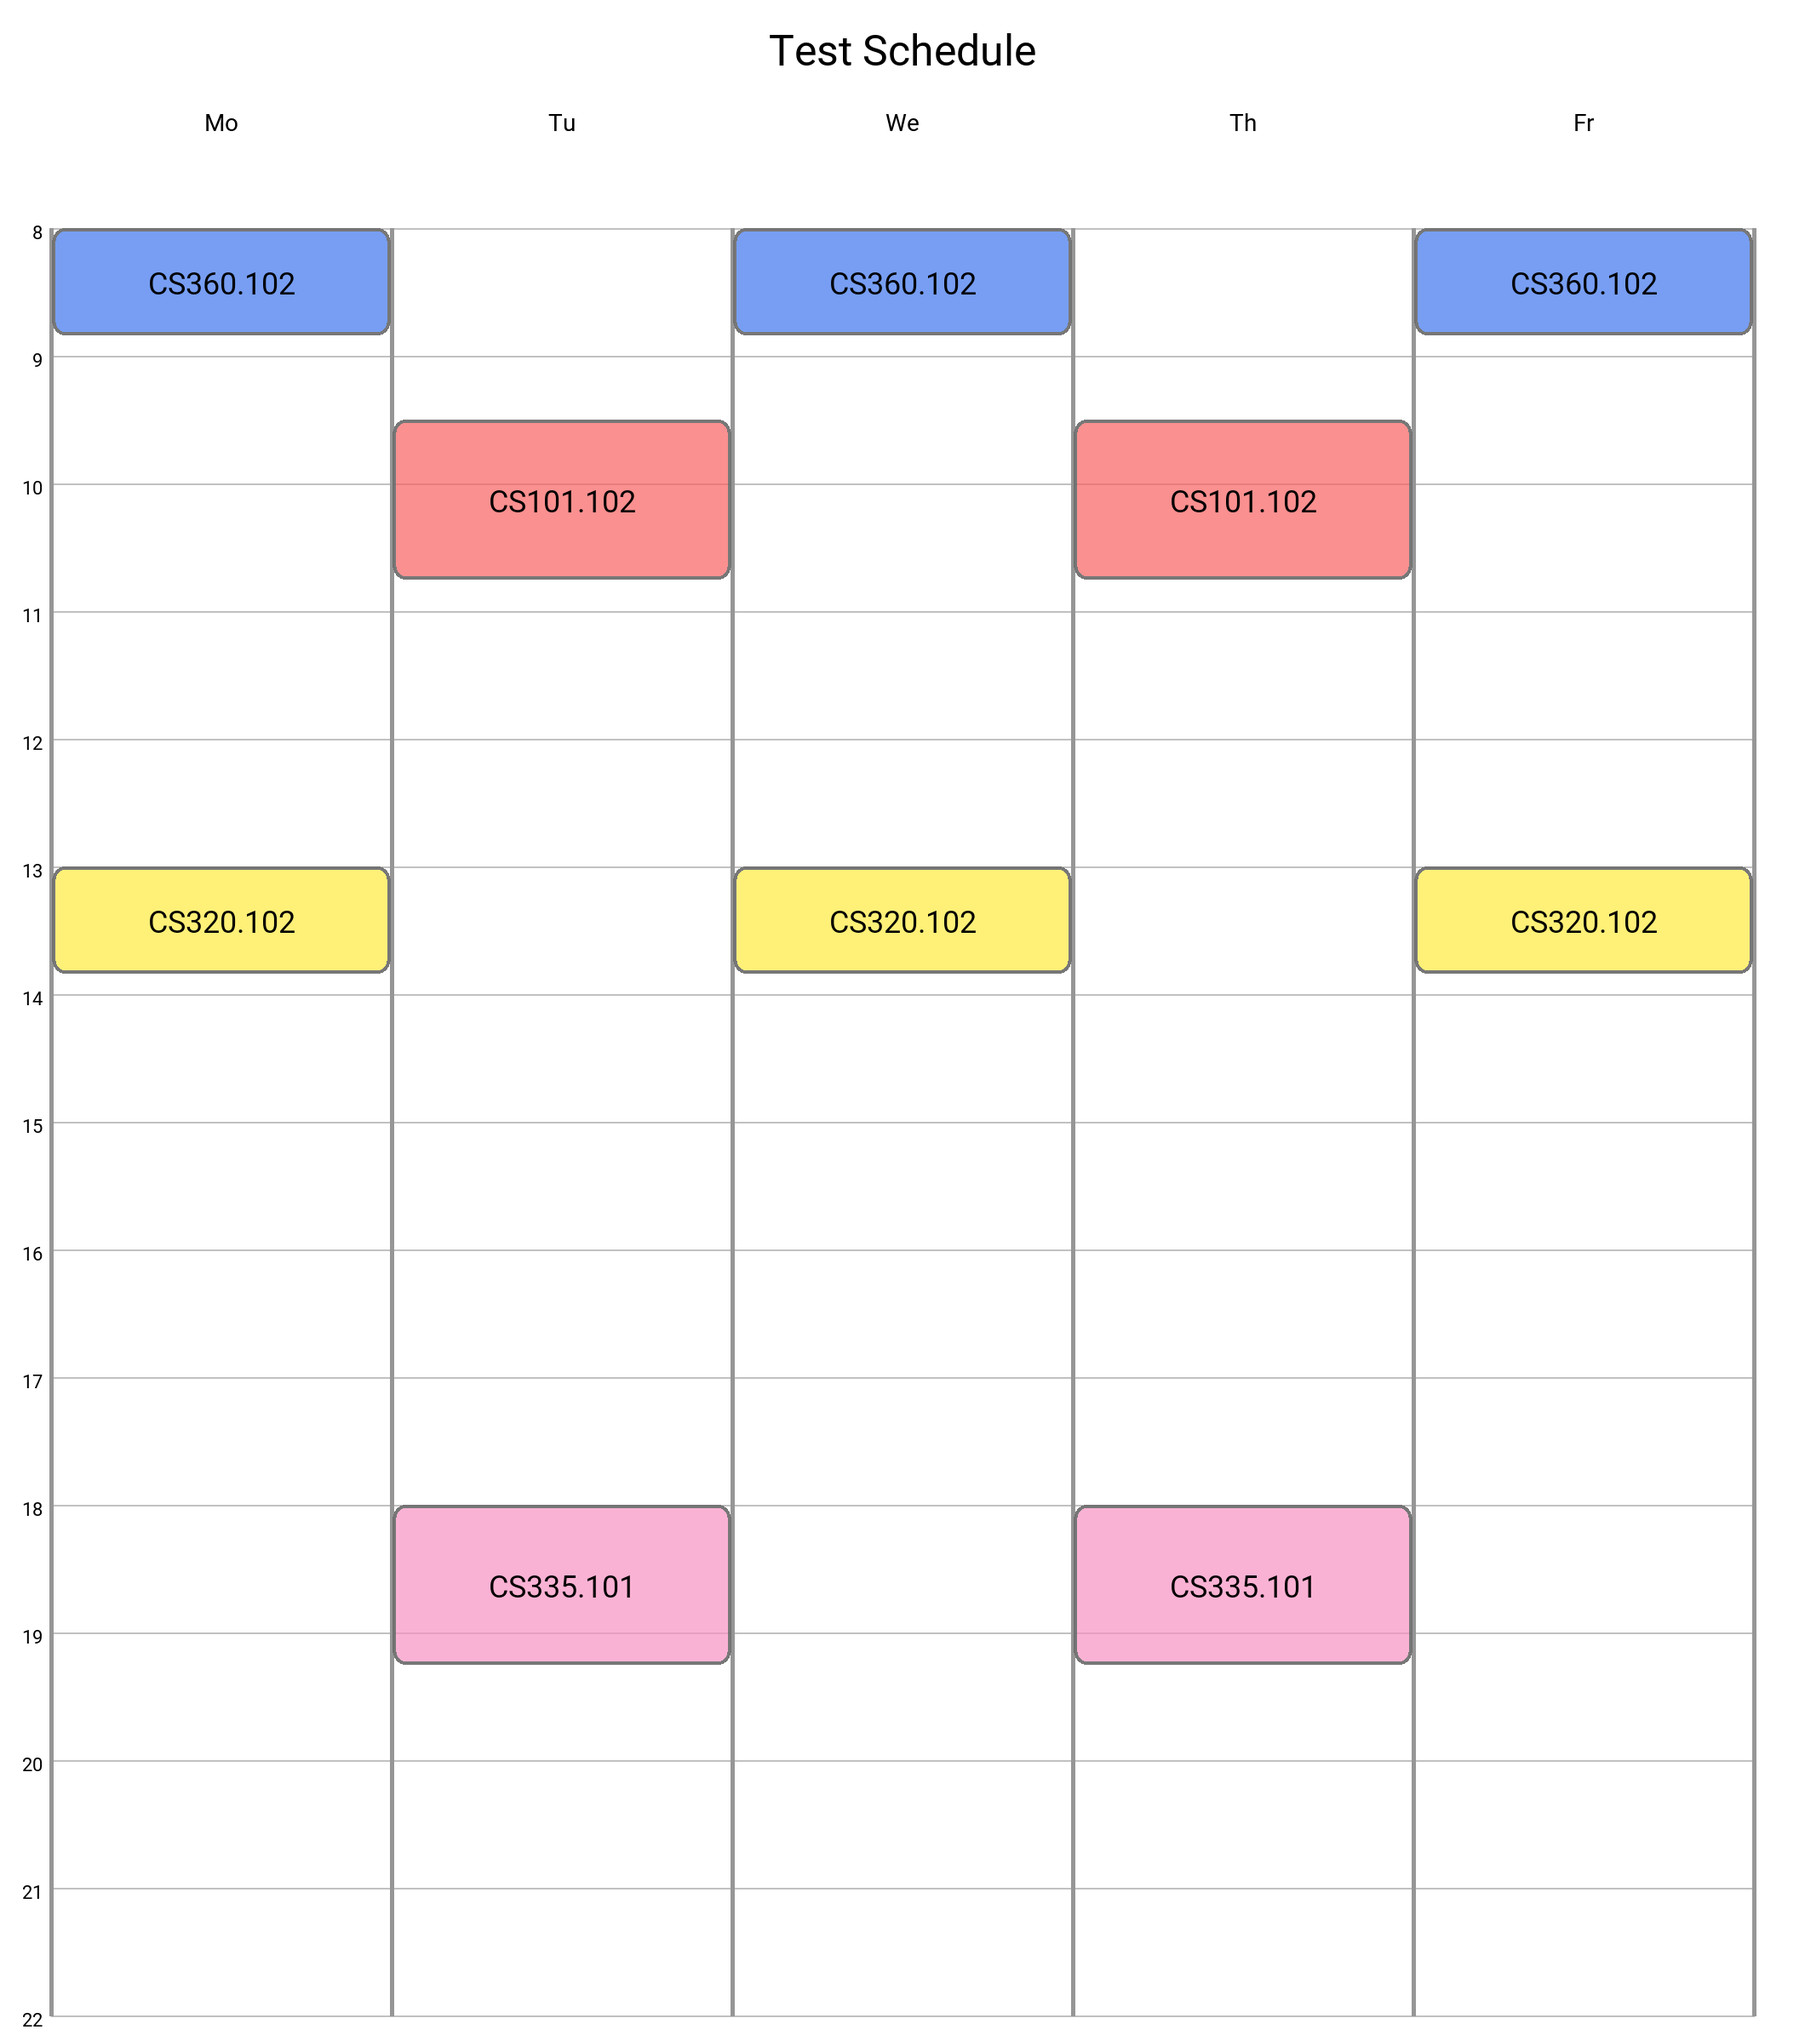
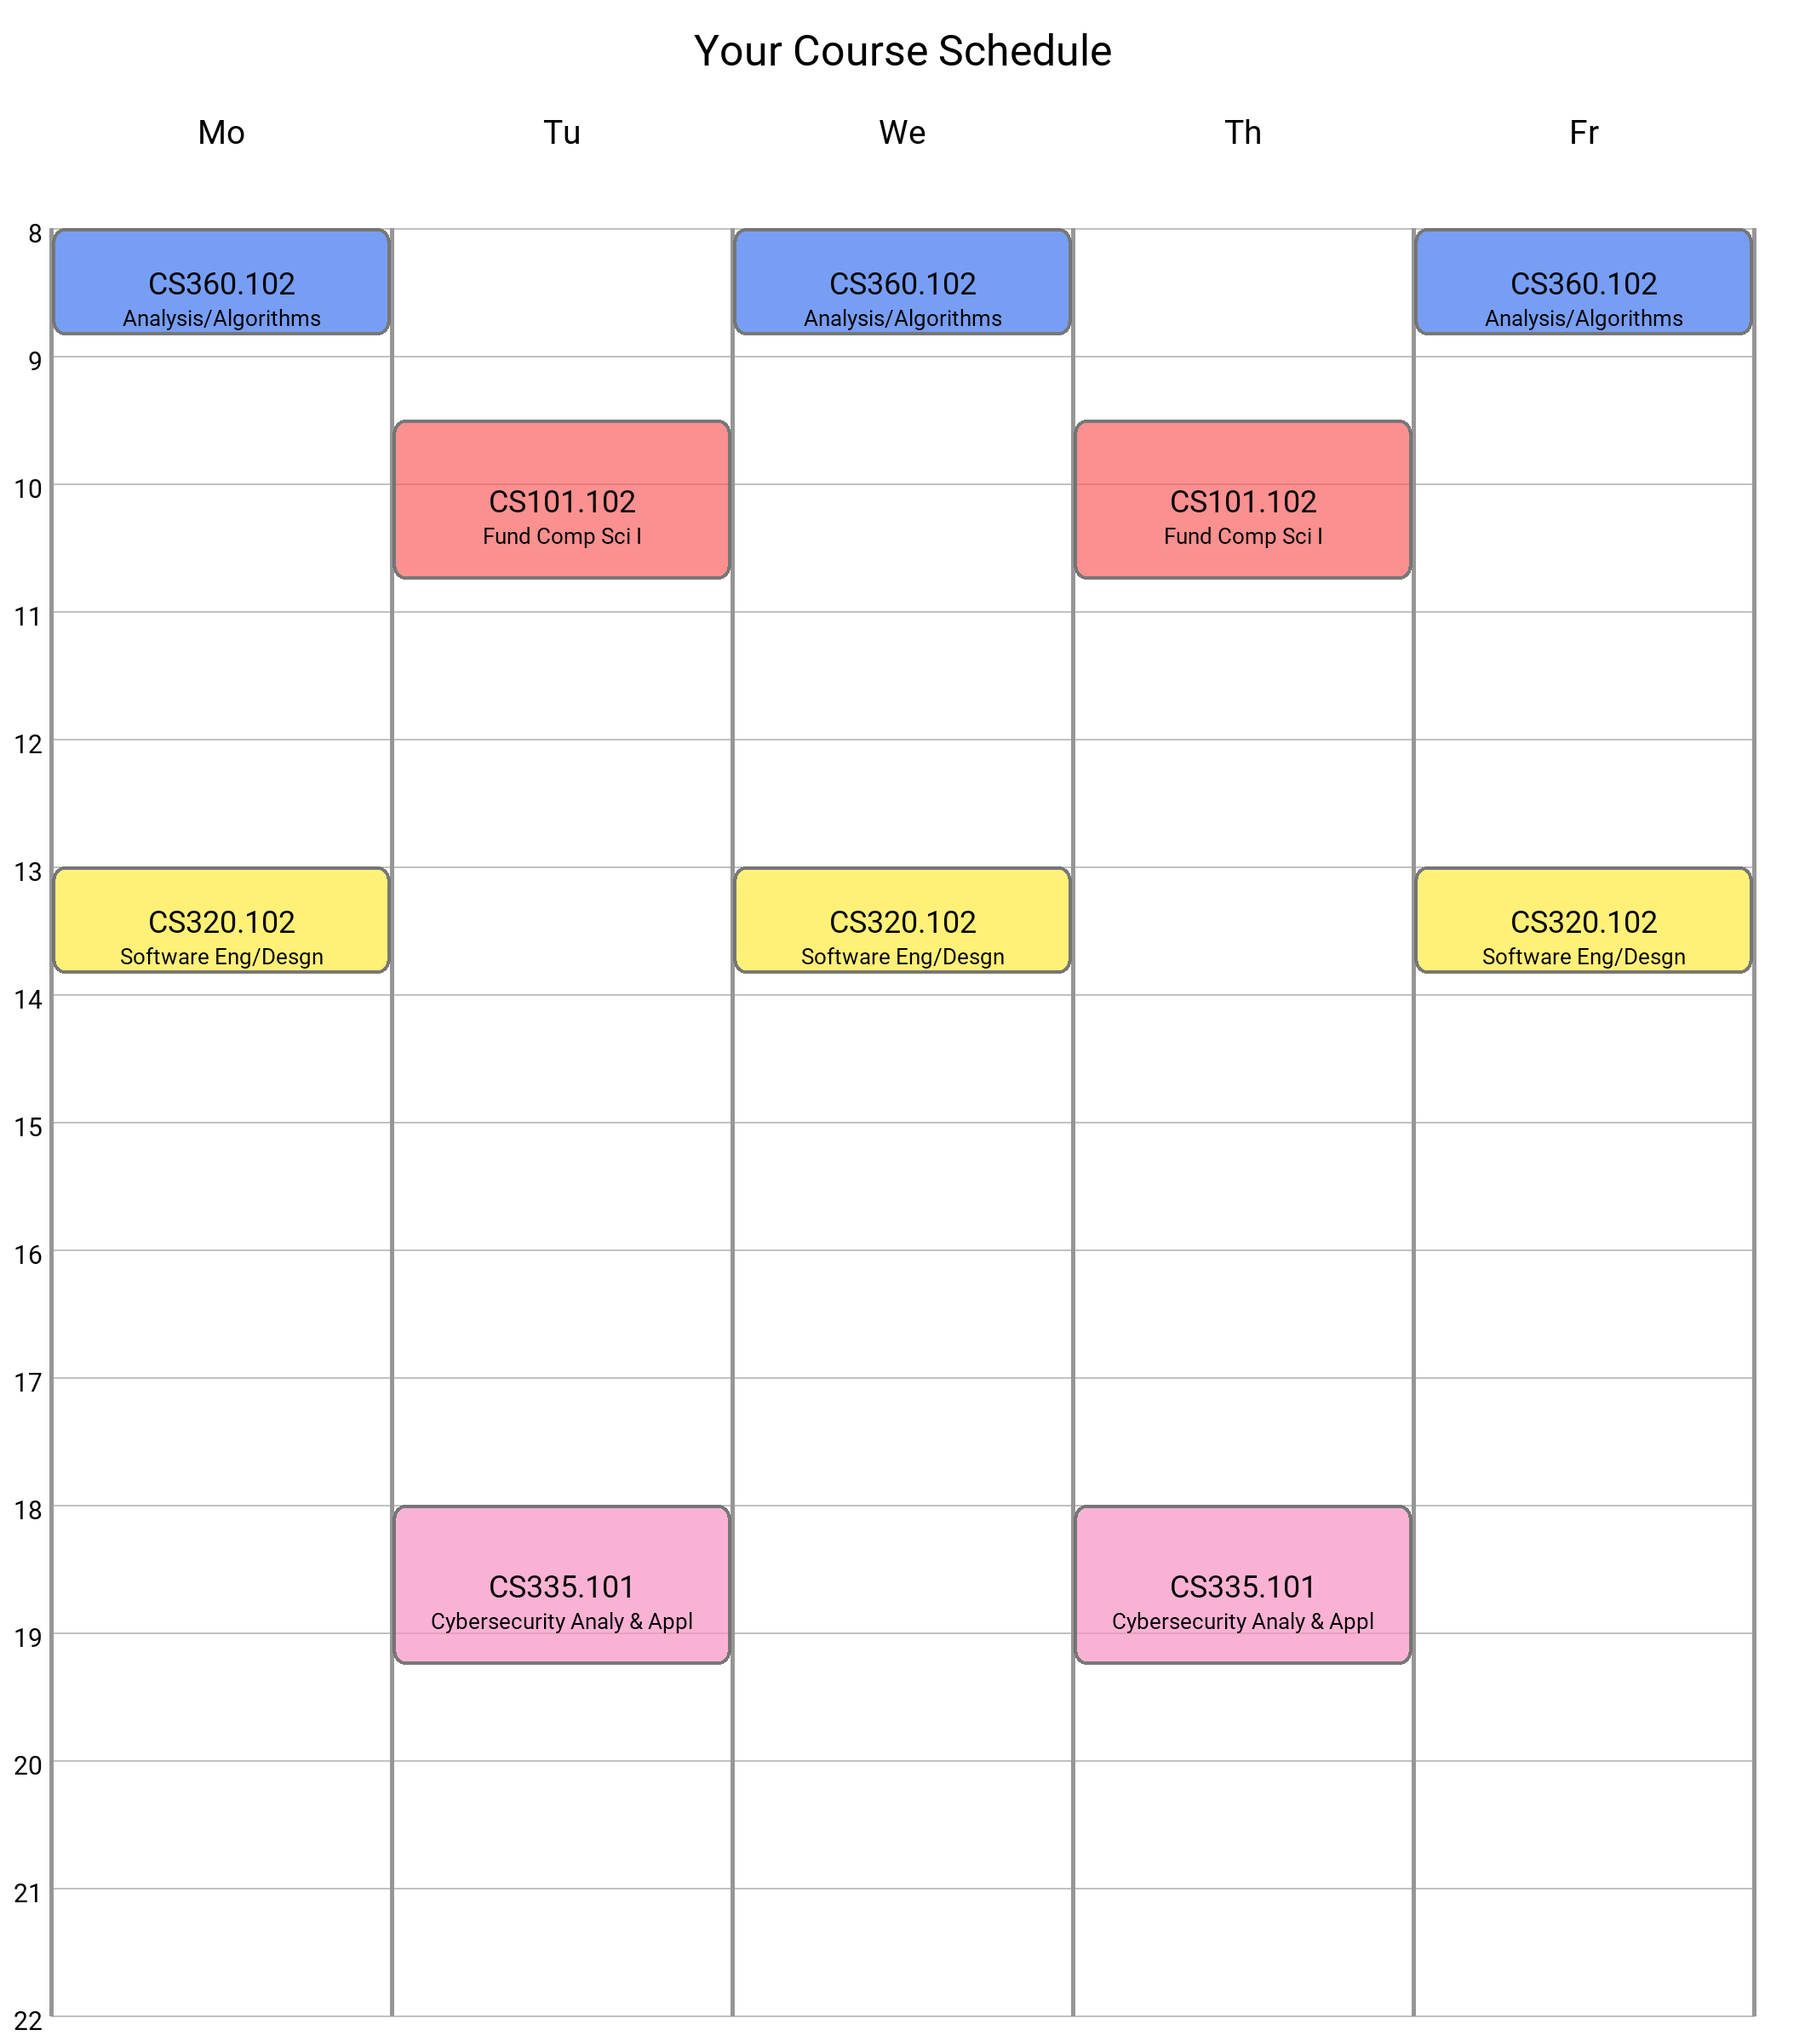
Added course names

diff --git a/Schedule Generator/draw_schedule.py b/Schedule Generator/draw_schedule.py
@@ -2,9 +2,11 @@ from calendar_view.calendar import Calendar
 from calendar_view.core import data
 from calendar_view.core.event import EventStyles
 
+import pandas as pd
+
 config = data.CalendarConfig(
     lang='en',
-    title='Test Schedule',
+    title='Your Course Schedule',
     dates='Mo - Fr',
     hours='8 - 22',
     mode=None,
@@ -12,18 +14,18 @@ config = data.CalendarConfig(
     show_year=False,
     legend=False,
 )
-
+df = pd.read_csv("csdata.csv")
 color_list = [EventStyles.RED, EventStyles.BLUE, EventStyles.YELLOW, EventStyles.PINK, EventStyles.GRAY]
 
 calendar = Calendar.build(config)
-courses = [["23140","CS101.102","Fund Comp Sci I","3.00","LEC","T R","09:30AM-10:45AM","KEC 119","Kambhampaty K",'12','1','01/25/24-05/09/24'], 
-           ["23149","CS360.102","Analysis/Algorithms","3.00","LEC","M W F",'08:00AM-08:50AM',"KEC 119","Zeller D","12",'0','01/25/24-05/09/24'], 
-           ["23145","CS320.102","Software Eng/Desgn","3.00","LEC","M W F",'01:00PM-01:50PM',"KEC 119","Hake D","10","2","01/25/24-05/09/24"], 
-           ['23147','CS335.101','Cybersecurity Analy & Appl','3.00','LEC','T R','06:00PM-07:15PM','KEC 123','Zhelezov G','20','7','01/25/24-05/09/24']]
+courses = [["23140","CS101.102","Fund Comp Sci I","T R","09:30AM-10:45AM","KEC 119","Kambhampaty K",'12','1','01/25/24-05/09/24'], 
+           ["23149","CS360.102","Analysis/Algorithms","M W F",'08:00AM-08:50AM',"KEC 119","Zeller D","12",'0','01/25/24-05/09/24'], 
+           ["23145","CS320.102","Software Eng/Desgn","M W F",'01:00PM-01:50PM',"KEC 119","Hake D","10","2","01/25/24-05/09/24"], 
+           ['23147','CS335.101','Cybersecurity Analy & Appl','T R','06:00PM-07:15PM','KEC 123','Zhelezov G','20','7','01/25/24-05/09/24']]
 
 for i in range (len(courses)):
-    days = courses[i][5].split()
-    times = courses[i][6].split('-')
+    days = courses[i][3].split()
+    times = courses[i][4].split('-')
     course_title = courses[i][1]
     course_name = courses[i][2]
     for j in range(2):
@@ -43,6 +45,6 @@ for i in range (len(courses)):
             day = 3
         if day == 'F':
             day = 4
-        calendar.add_event(day_of_week= day, start=times[0][:5], end=times[1][:5], title=course_title, style=color_list[i])
+        calendar.add_event(day_of_week= day, start=times[0][:5], end=times[1][:5], title=course_title,notes = course_name, style=color_list[i])
         
 calendar.save("test_schedule.png")

diff --git a/Schedule Generator/calendar_view/core/calendar_events.py b/Schedule Generator/calendar_view/core/calendar_events.py
@@ -186,7 +186,7 @@ class CalendarEvents(object):
 
         # print notes
         if notes_metadata.visible:
-            y_text_offset: int = 0  # draw the notes right after the title
+            y_text_offset: int = 0 # draw the notes right after the title
             if not title_metadata.visible:
                 # if the title is not visible, calculate the top-left position of the notes multiline text block
                 y_text_offset = EventDrawHelper.calculate_text_y_position_offset(self.config.title_vertical_align,
@@ -195,7 +195,8 @@ class CalendarEvents(object):
                                                                                  total_text_height=total_height)
             # the top-left position of the notes block
             notes_pos: Tuple[int, int] = (
-                p1[0] + style.event_padding,
+                (p1[0] + p2[0]) / 2 - notes_metadata.size[0] / 2,
+                # p1[0] + style.event_padding,
                 y_top_offset + y_text_offset
             )
             self.event_draw.multiline_text(notes_pos, notes_metadata.text, align='left',

diff --git a/Schedule Generator/calendar_view/config/style.py b/Schedule Generator/calendar_view/config/style.py
@@ -23,10 +23,10 @@ title_padding_right = 30
 title_padding_top = 30
 title_padding_bottom = 20
 
-hour_number_font = image_font(22)
+hour_number_font = image_font(30)
 hour_number_color = 'black'
 
-day_of_week_font = image_font(28)
+day_of_week_font = image_font(39)
 day_of_week_color = 'black'
 
 line_day_color = (150, 150, 150, 255)
@@ -42,12 +42,12 @@ event_fill_default = (196, 234, 188, 210)
 event_title_font = image_font(36)
 event_title_color = 'black'
 event_notes_font = image_font(26)
-event_notes_color = 'gray'
+event_notes_color = 'black'
 event_padding: int = 20
 event_title_margin: int = 20
 
 legend_spacing = 20
-legend_padding_top = 40
+legend_padding_top = 20
 legend_padding_bottom = 70
 legend_padding_left = 70
 legend_padding_right = 40
